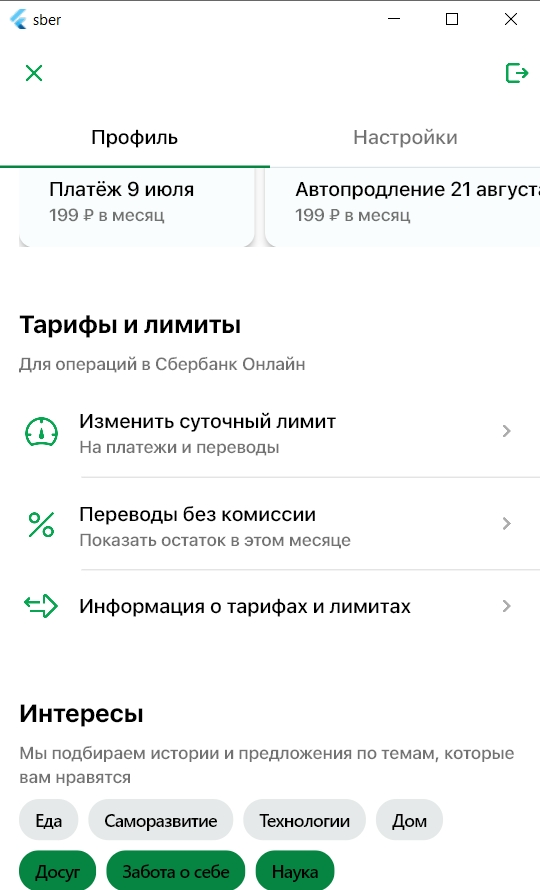
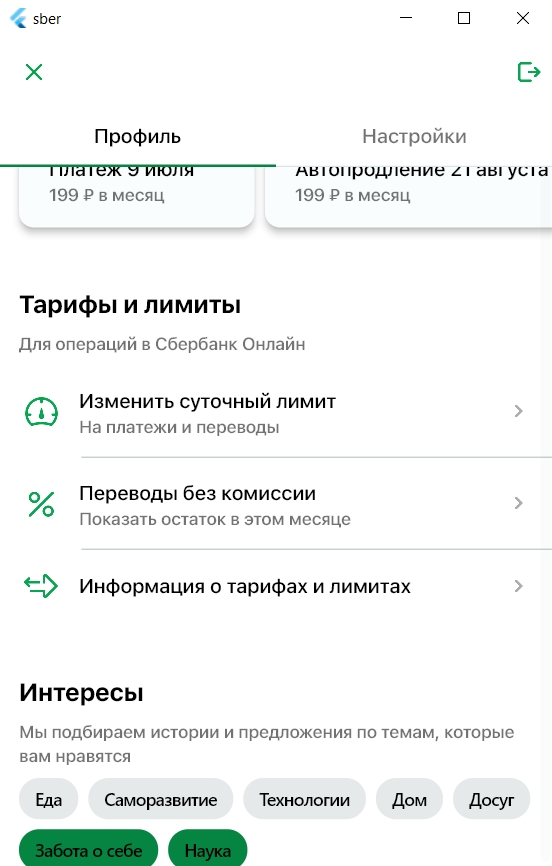
fix tariffs structure

diff --git a/lib/widgets/tariffs.dart b/lib/widgets/tariffs.dart
@@ -1,5 +1,4 @@
 import 'package:flutter/material.dart';
-import 'package:sber/theme/colors.dart';
 import 'tariff_card.dart';
 import 'package:sber/model/tariff.dart';
 
@@ -14,26 +13,17 @@ class Tariffs extends StatelessWidget {
       child: Column(
         crossAxisAlignment: CrossAxisAlignment.start,
         children: [
-          // const SizedBox(height: 12),
-          InkWell(
-            onTap: () {},
-            borderRadius: BorderRadius.circular(12),
-            child: TariffCard(tariff: tariffs[0]),
+          ListView.separated(
+            shrinkWrap: true,
+            separatorBuilder: (context, int index) => const Divider(
+              height: 10,
+              indent: 50,
+            ), 
+            itemCount: tariffs.length,
+            itemBuilder: (BuildContext context, int index) {
+              return TariffCard(tariff: tariffs[index]);
+            }
           ),
-
-          for (var (index, item) in tariffs.indexed) 
-            if (index != 0) ...[
-              Divider(
-                height: 10,
-                indent: 50,
-                color: AppColors.divider,
-              ),
-              InkWell(
-                onTap: () {},
-                borderRadius: BorderRadius.circular(12),
-                child: TariffCard(tariff: item),
-              ),
-            ]
         ],
       )
     );
